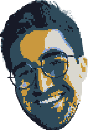
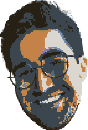
Light theme has different colors for accessibility

diff --git a/styles/style.css b/styles/style.css
@@ -35,21 +35,21 @@
 /* Theming and <body> */
 
 html[data-theme="light"] {
-  --background: #e0e5f1;
-  --nav: #e0e5f1a4;
-  --body: #1f1a0e;
-  --faded: #9fa6b6;
-  --primary: #6b98c9;
-  --secondary: #c69232;
+  --background: #FEFCF6;
+  --nav: #FEFCF6A4;
+  --body: #1F1A0E;
+  --faded: #BDBAB2;
+  --primary: #4576B0;
+  --secondary: #C18653;
 }
 
 html[data-theme="dark"] {
-  --background: #1b1b26;
-  --nav: #1b1b26ad;
-  --body: #e0e5f1;
-  --faded: #4f4f6b;
-  --primary: #aa9fff;
-  --secondary: #f5d324;
+  --background: #1B1B26;
+  --nav: #1B1B26AD;
+  --body: #E0E5F1;
+  --faded: #4F4F6B;
+  --primary: #AA9FFF;
+  --secondary: #F5D324;
 }
 
 body {
